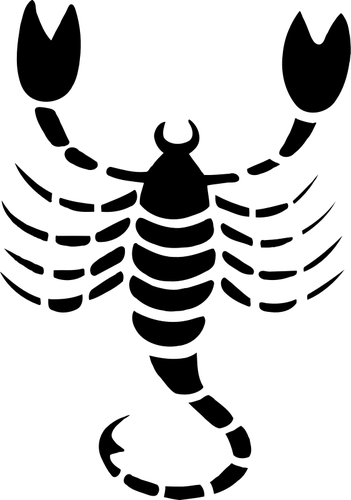
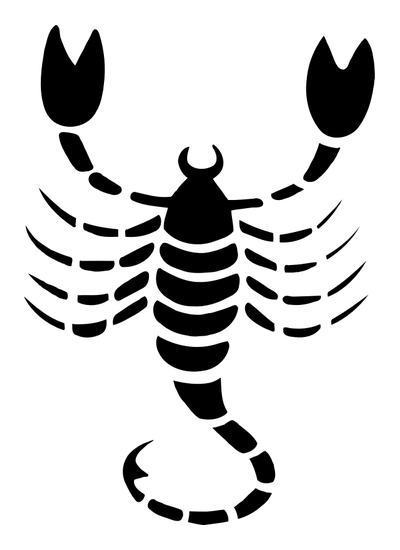
starting to draw scorpio's body

Changed region(s): [[0.0, 0.0, 1.0, 1.0]]

diff --git a/draw-scorpio.c b/draw-scorpio.c
@@ -2,20 +2,39 @@
 #include <stdlib.h>
 
 #define WINDOW_WIDTH 400
-#define WINDOW_HEIGHT 400
+#define WINDOW_HEIGHT 550
 #define WINDOW_TITLE "Scorpio"
 
-int init() {
-}
-
-void defineColors() {
+void drawScorpio() {
     glClearColor(1, 1, 1, 0);
     glClear(GL_COLOR_BUFFER_BIT);
-}
-
-void drawScorpio() {
-    defineColors();
+    glColor3f(0, 0, 0);
     
+    // GL_POINTS
+    // GL_LINES
+    // GL_LINE_LOOP
+    // GL_LINE_STRIP
+    // GL_TRIANGLES
+    // GL_TRIANGLE_STRIP
+    // GL_TRIANGLE_FAN
+    // GL_QUADS
+    // GL_QUAD_STRIP
+    // GL_POLYGON
+    
+    glBegin(GL_POLYGON);
+    glVertex2f(168, WINDOW_HEIGHT - 360); // left bottom
+    glVertex2f(213, WINDOW_HEIGHT - 365); // right bottom
+    glVertex2f(225, WINDOW_HEIGHT - 343); // right top
+    glVertex2f(160, WINDOW_HEIGHT - 337); // left top
+    glEnd();
+
+    glBegin(GL_POLYGON);
+    glVertex2f(161, WINDOW_HEIGHT - 324); // left bottom
+    glVertex2f(220, WINDOW_HEIGHT - 330); // right bottom
+    glVertex2f(237, WINDOW_HEIGHT - 307); // right top
+    glVertex2f(155, WINDOW_HEIGHT - 302); // left top
+    glEnd();
+
     glFlush();
 }
 
@@ -25,10 +44,13 @@ int main(int argc, char **argv)
     glutInitDisplayMode(GLUT_SINGLE | GLUT_RGB);
     glutInitWindowSize(WINDOW_WIDTH, WINDOW_HEIGHT);
     glutCreateWindow(WINDOW_TITLE);
-    glMatrixMode(GL_PROJECTION);
-    gluOrtho2D(-1.0, 1.0, -1.0, 1.0);
-    glMatrixMode(GL_MODELVIEW);
+    
     glutDisplayFunc(drawScorpio);
+    
+    glMatrixMode(GL_PROJECTION);
+    gluOrtho2D(0, WINDOW_WIDTH, 0, WINDOW_HEIGHT);
+    glMatrixMode(GL_MODELVIEW);
+
     glutMainLoop();
     return 0;
 }
